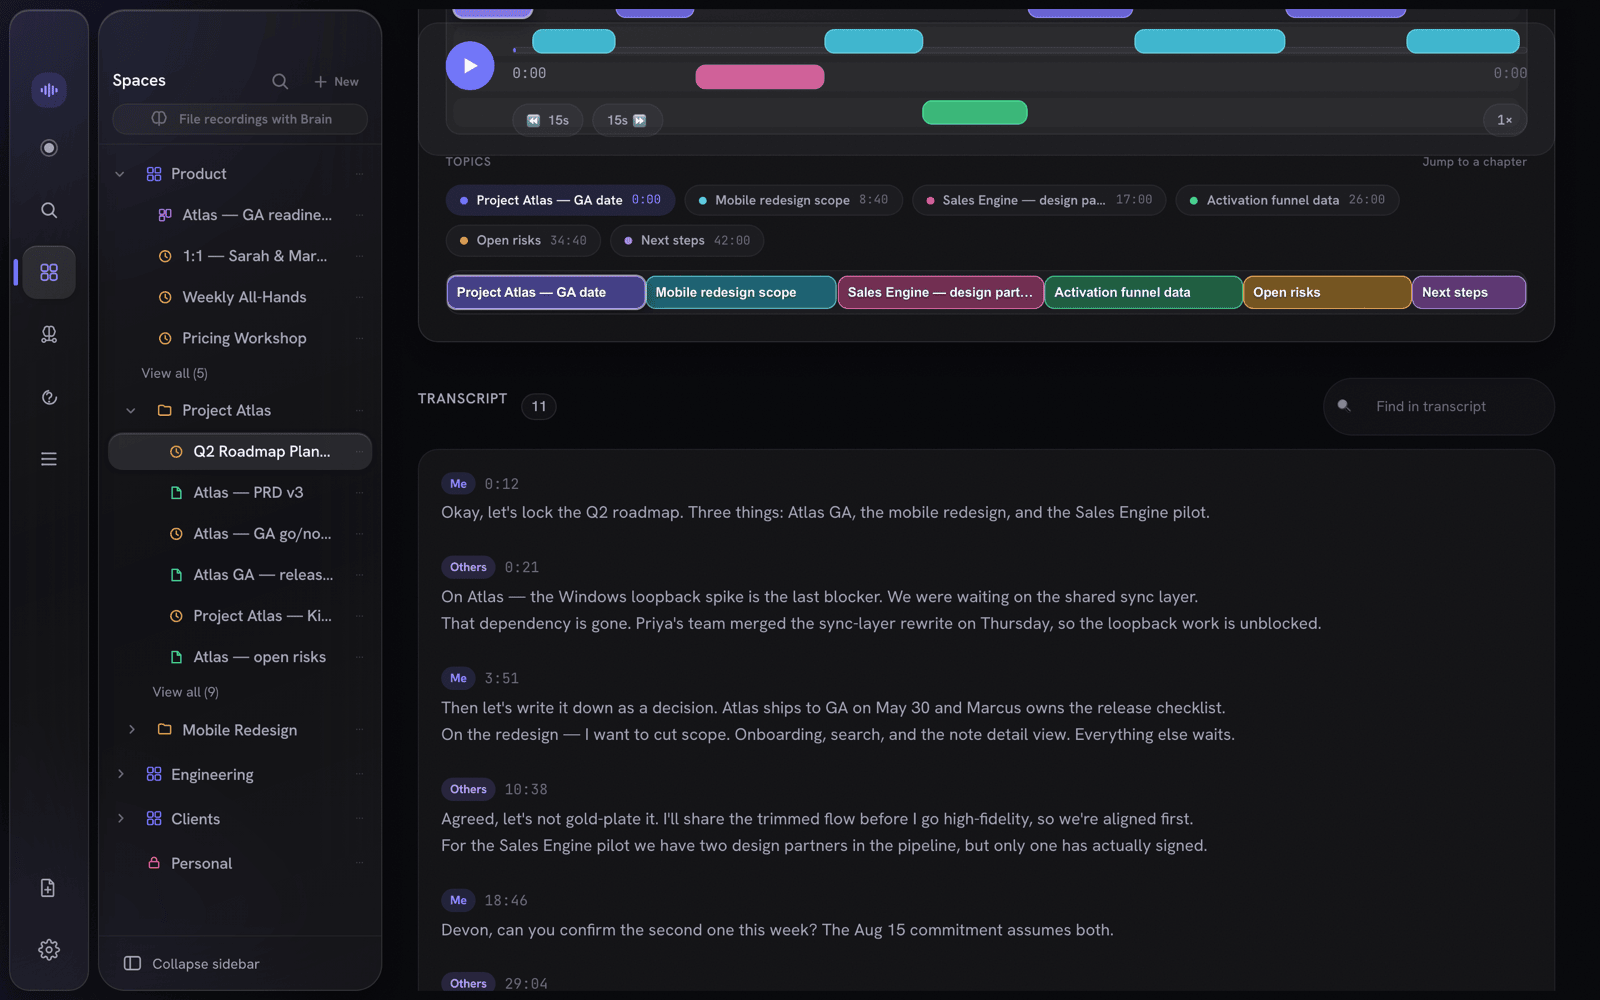
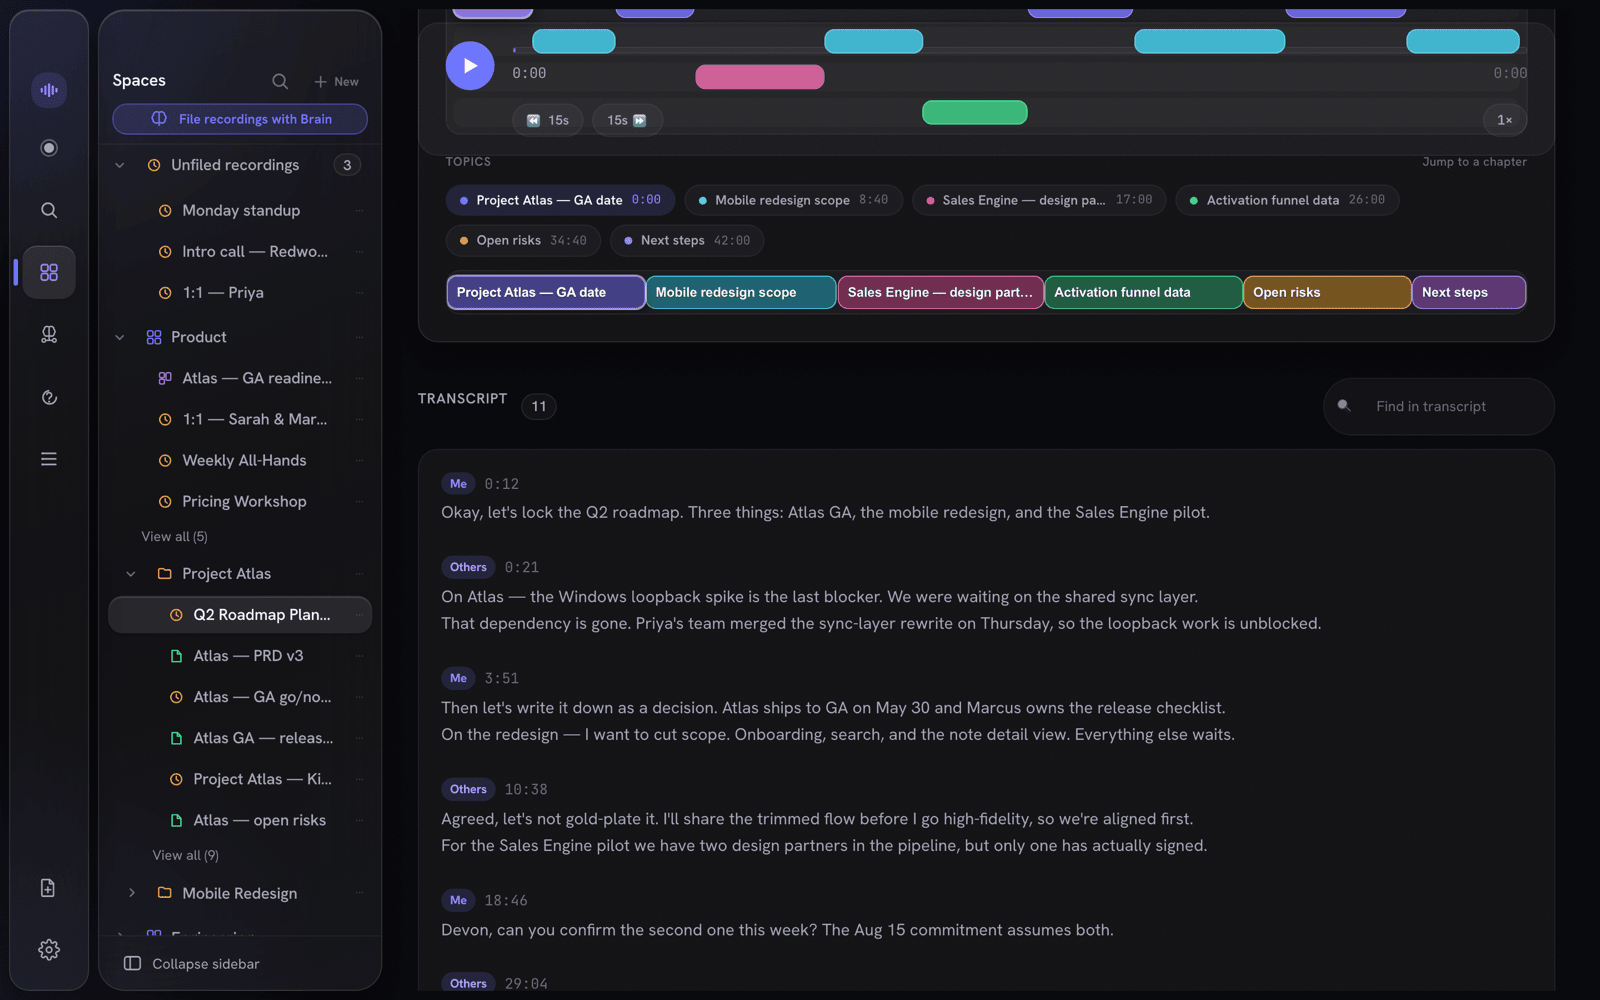
docs(screenshots): the sidebar was missing its Unfiled recordings inbox
Reported against the shots: the sidebar was out of date. It was — and not because
a commit had moved. The Spaces tree's FIRST section is an "Unfiled recordings"
inbox (`workspace-tree.component.html:16`), loaded by
`listContainerItems(null, "meeting", 0, 8)` — containerId **null**. The mock keyed
`CONTAINER_ITEMS` by id only, so `null` matched nothing, the page came back empty,
and `@if (unfiledRecordings())` never rendered.

That inbox is exactly what the last three sidebar PRs delivered (#611 surfaced it,
#620 unified the filing workflow, #622 fixed its drag-and-drop), and not one of
them was visible in a single screenshot.

It also silently falsified a second thing: with an empty inbox, "File recordings
with Brain" sits inert. With three strays in it the button renders in its active
accent — because that is the state it is for. The shot was showing a dead control.

The inbox rides the same `RICH()` gate as the tree it renders inside of, so the
e2e baseline is untouched: full chromium suite 462 passed, 0 failed, 1 skipped.

All 30 re-shot, landing assets refreshed from the same run, and the sidebar
verified across every shot that shows the Spaces panel (the Browse panel correctly
does not carry it — different panel).

diff --git a/scripts/screenshots/mock-tauri.js b/scripts/screenshots/mock-tauri.js
@@ -779,6 +779,16 @@ scope to the GA-critical path only.
   // few plus the true total — so the sidebar preview and the container page can
   // never disagree, which is exactly the drift a hand-written mock invites.
   const CONTAINER_ITEMS = {
+    // containerId `null` is the UNFILED inbox — recordings that belong to no
+    // lockable container yet. It renders as the first section of the Spaces tree,
+    // above "File recordings with Brain", which is what that button acts on.
+    unfiled: {
+      meeting: [
+        IR("meeting", "m-unfiled-standup", "Monday standup", 0, 900),
+        IR("meeting", "m-unfiled-call", "Intro call — Redwood Labs", 1, 1620),
+        IR("meeting", "m-unfiled-1on1", "1:1 — Priya", 2, 1380),
+      ],
+    },
     "f-product": {
       meeting: [
         IR("meeting", "m-all-hands", "Weekly All-Hands", 7, 2040),
@@ -1733,7 +1743,10 @@ scope to the GA-critical path only.
       // from, so a container page and its sidebar preview always agree.
       case "list_container_items": {
         const kind = args.kind || "meeting";
-        const all = (CONTAINER_ITEMS[args.containerId] || {})[kind] || [];
+        // A null containerId is the unfiled inbox. It rides the same RICH() gate as
+        // the tree it renders inside of, so the e2e baseline stays untouched.
+        const key = args.containerId == null ? (RICH() ? "unfiled" : "__none__") : args.containerId;
+        const all = (CONTAINER_ITEMS[key] || {})[kind] || [];
         const offset = args.offset || 0;
         const limit = args.limit || all.length;
         return { kind, total: all.length, items: all.slice(offset, offset + limit) };
